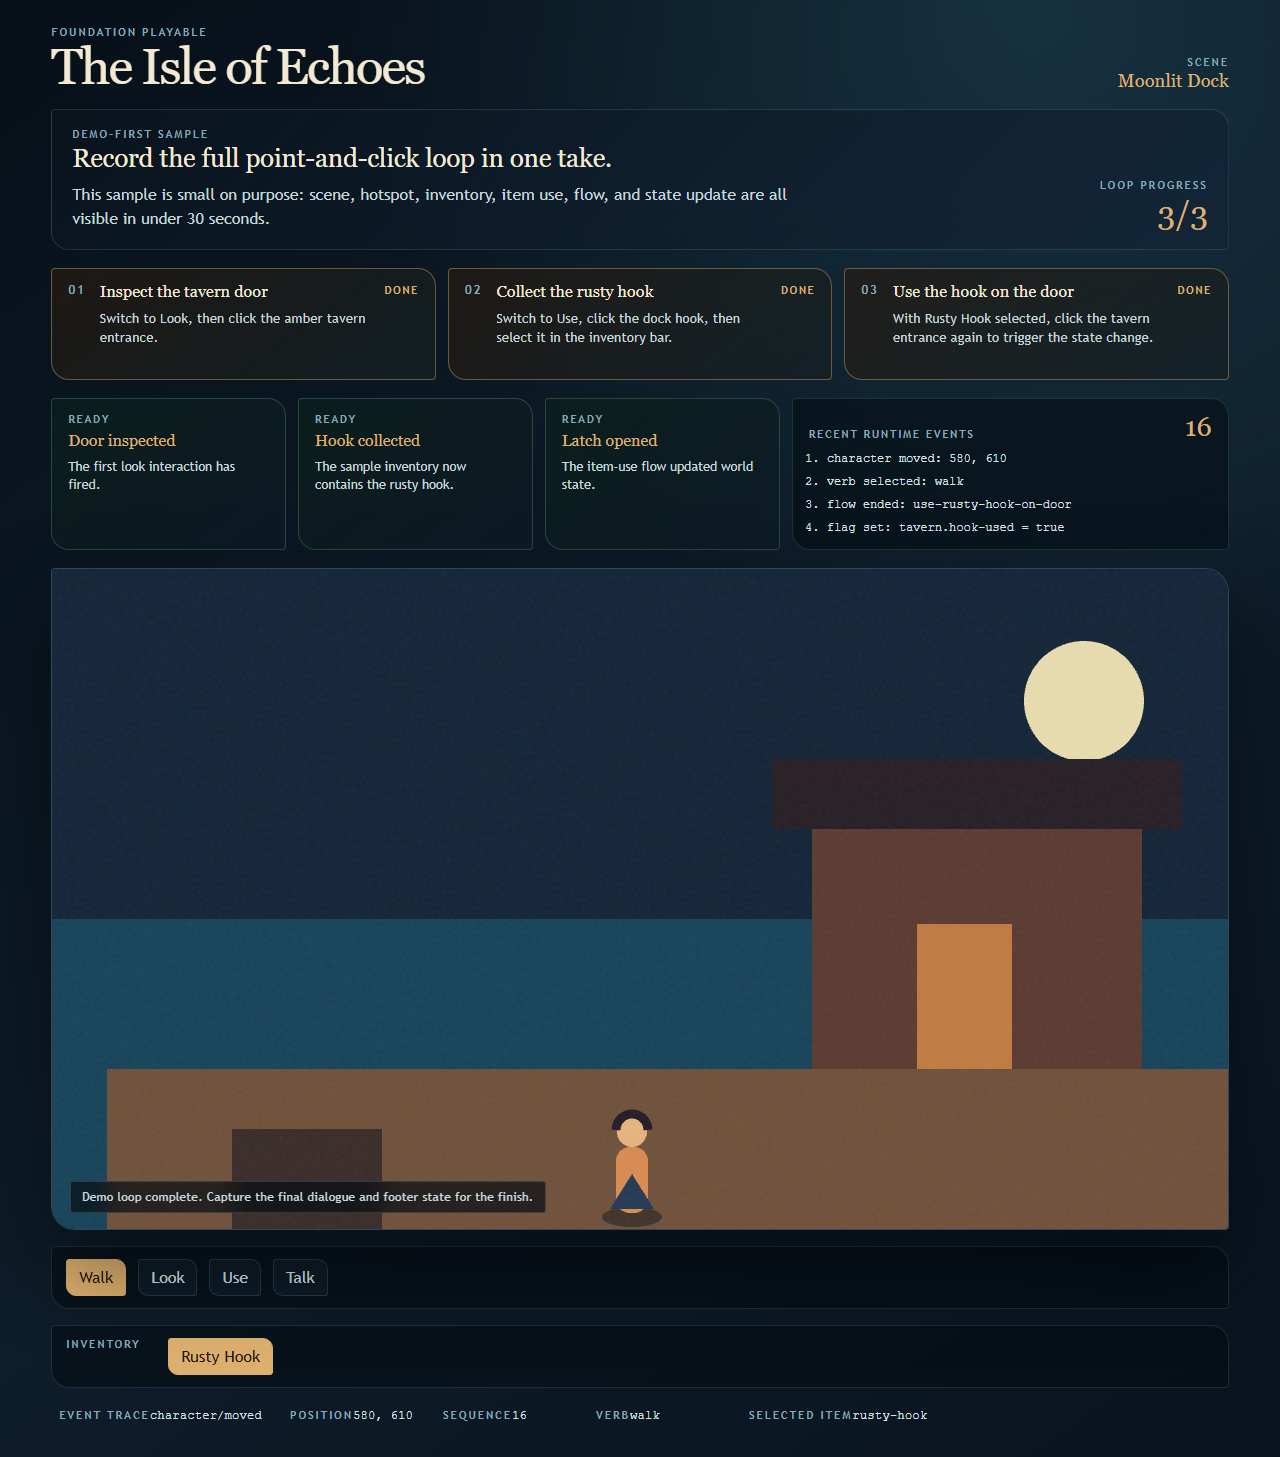
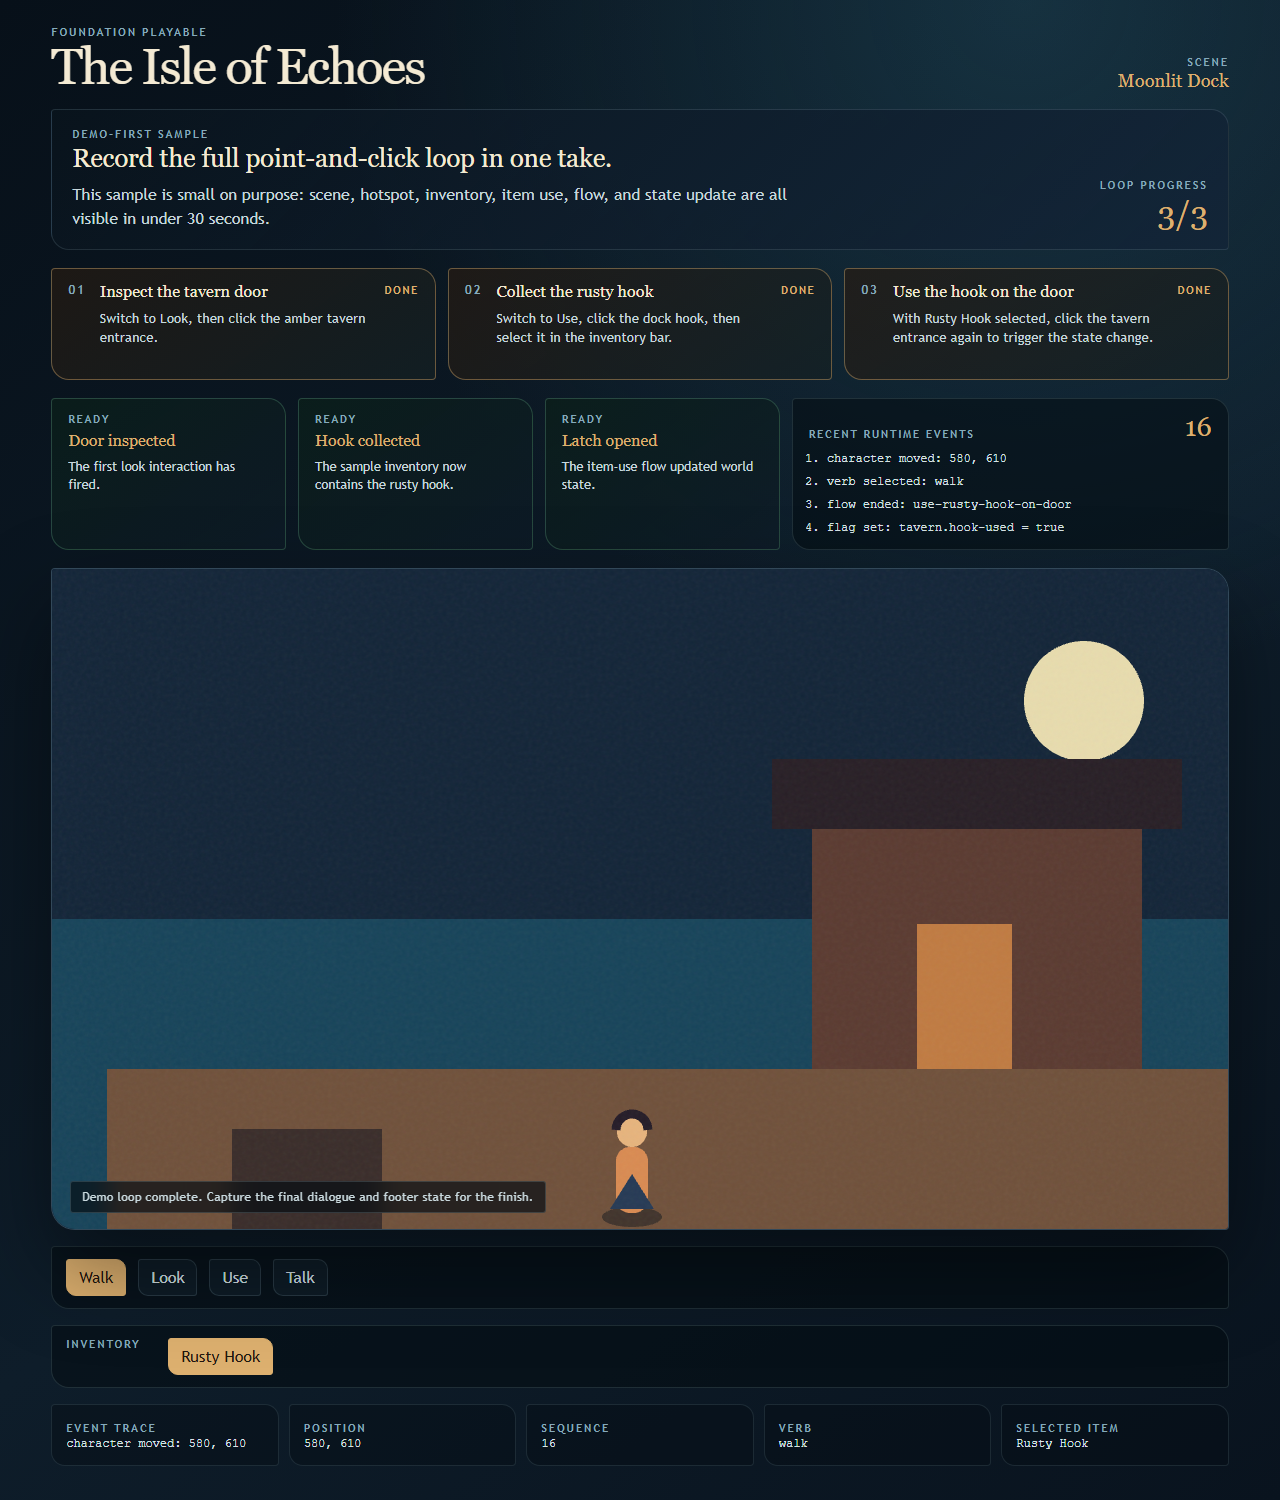
feat: improve sample demo readout

diff --git a/apps/player-web/src/styles.css b/apps/player-web/src/styles.css
@@ -316,9 +316,10 @@ h1 {
 }
 
 .game-footer {
-  justify-content: flex-start;
+  display: grid;
+  grid-template-columns: repeat(5, minmax(0, 1fr));
+  gap: 10px;
   margin-top: 16px;
-  padding-left: 8px;
 }
 
 .verb-bar,
@@ -375,14 +376,21 @@ h1 {
 }
 
 .event-readout {
-  min-width: 125px;
+  min-width: 0;
+  padding: 12px 14px;
+  border: 1px solid rgba(182, 218, 228, 0.12);
+  border-radius: 4px 14px 4px 14px;
+  background: rgba(4, 12, 18, 0.42);
 }
 
 .event-readout strong {
+  display: block;
   color: #d7e3e5;
   font-family: "Courier New", monospace;
-  font-size: 0.78rem;
+  font-size: 0.75rem;
   font-weight: 400;
+  line-height: 1.4;
+  overflow-wrap: anywhere;
 }
 
 .dialogue-card {
@@ -476,8 +484,7 @@ h1 {
   }
 
   .game-footer {
-    display: grid;
-    grid-template-columns: repeat(3, 1fr);
+    grid-template-columns: repeat(2, minmax(0, 1fr));
     gap: 8px;
   }
 

diff --git a/apps/player-web/src/player-app.tsx b/apps/player-web/src/player-app.tsx
@@ -182,6 +182,14 @@ export function PlayerApp() {
     bundle && engine && scene
       ? engine.events.slice(-4).reverse().map((event) => formatEvent(event, bundle, scene))
       : [];
+  const selectedItemLabel = bundle && frame?.state.selectedItemId
+    ? localize(
+        bundle,
+        bundle.items[frame.state.selectedItemId]?.labelKey ?? "",
+        bundle.items[frame.state.selectedItemId]?.name ?? frame.state.selectedItemId
+      )
+    : "None";
+  const latestEventLabel = recentEvents[0] ?? "ready";
 
   useEffect(() => {
     let cancelled = false;
@@ -428,7 +436,7 @@ export function PlayerApp() {
       <footer className="game-footer">
         <div className="event-readout">
           <span>Event trace</span>
-          <strong>{engine.events.at(-1)?.type ?? "ready"}</strong>
+          <strong>{latestEventLabel}</strong>
         </div>
         <div className="event-readout">
           <span>Position</span>
@@ -446,7 +454,7 @@ export function PlayerApp() {
         </div>
         <div className="event-readout">
           <span>Selected item</span>
-          <strong>{frame.state.selectedItemId ?? "none"}</strong>
+          <strong>{selectedItemLabel}</strong>
         </div>
       </footer>
 

diff --git a/tests/e2e/player.spec.ts b/tests/e2e/player.spec.ts
@@ -62,7 +62,7 @@ test("plays the light-verb inventory loop end to end", async ({ page }) => {
   await page.getByRole("button", { name: "walk" }).click();
   await clickCanvas(580, 610);
   await expect(page.locator(".event-readout").nth(1)).not.toContainText("510, 590");
-  await expect(page.locator(".event-readout").first()).toContainText("character/moved");
+  await expect(page.locator(".event-readout").first()).toContainText("character moved: 580, 610");
 
   const capturePath = process.env.CAPTURE_SAMPLE_SCREENSHOT_PATH;
   if (capturePath) {